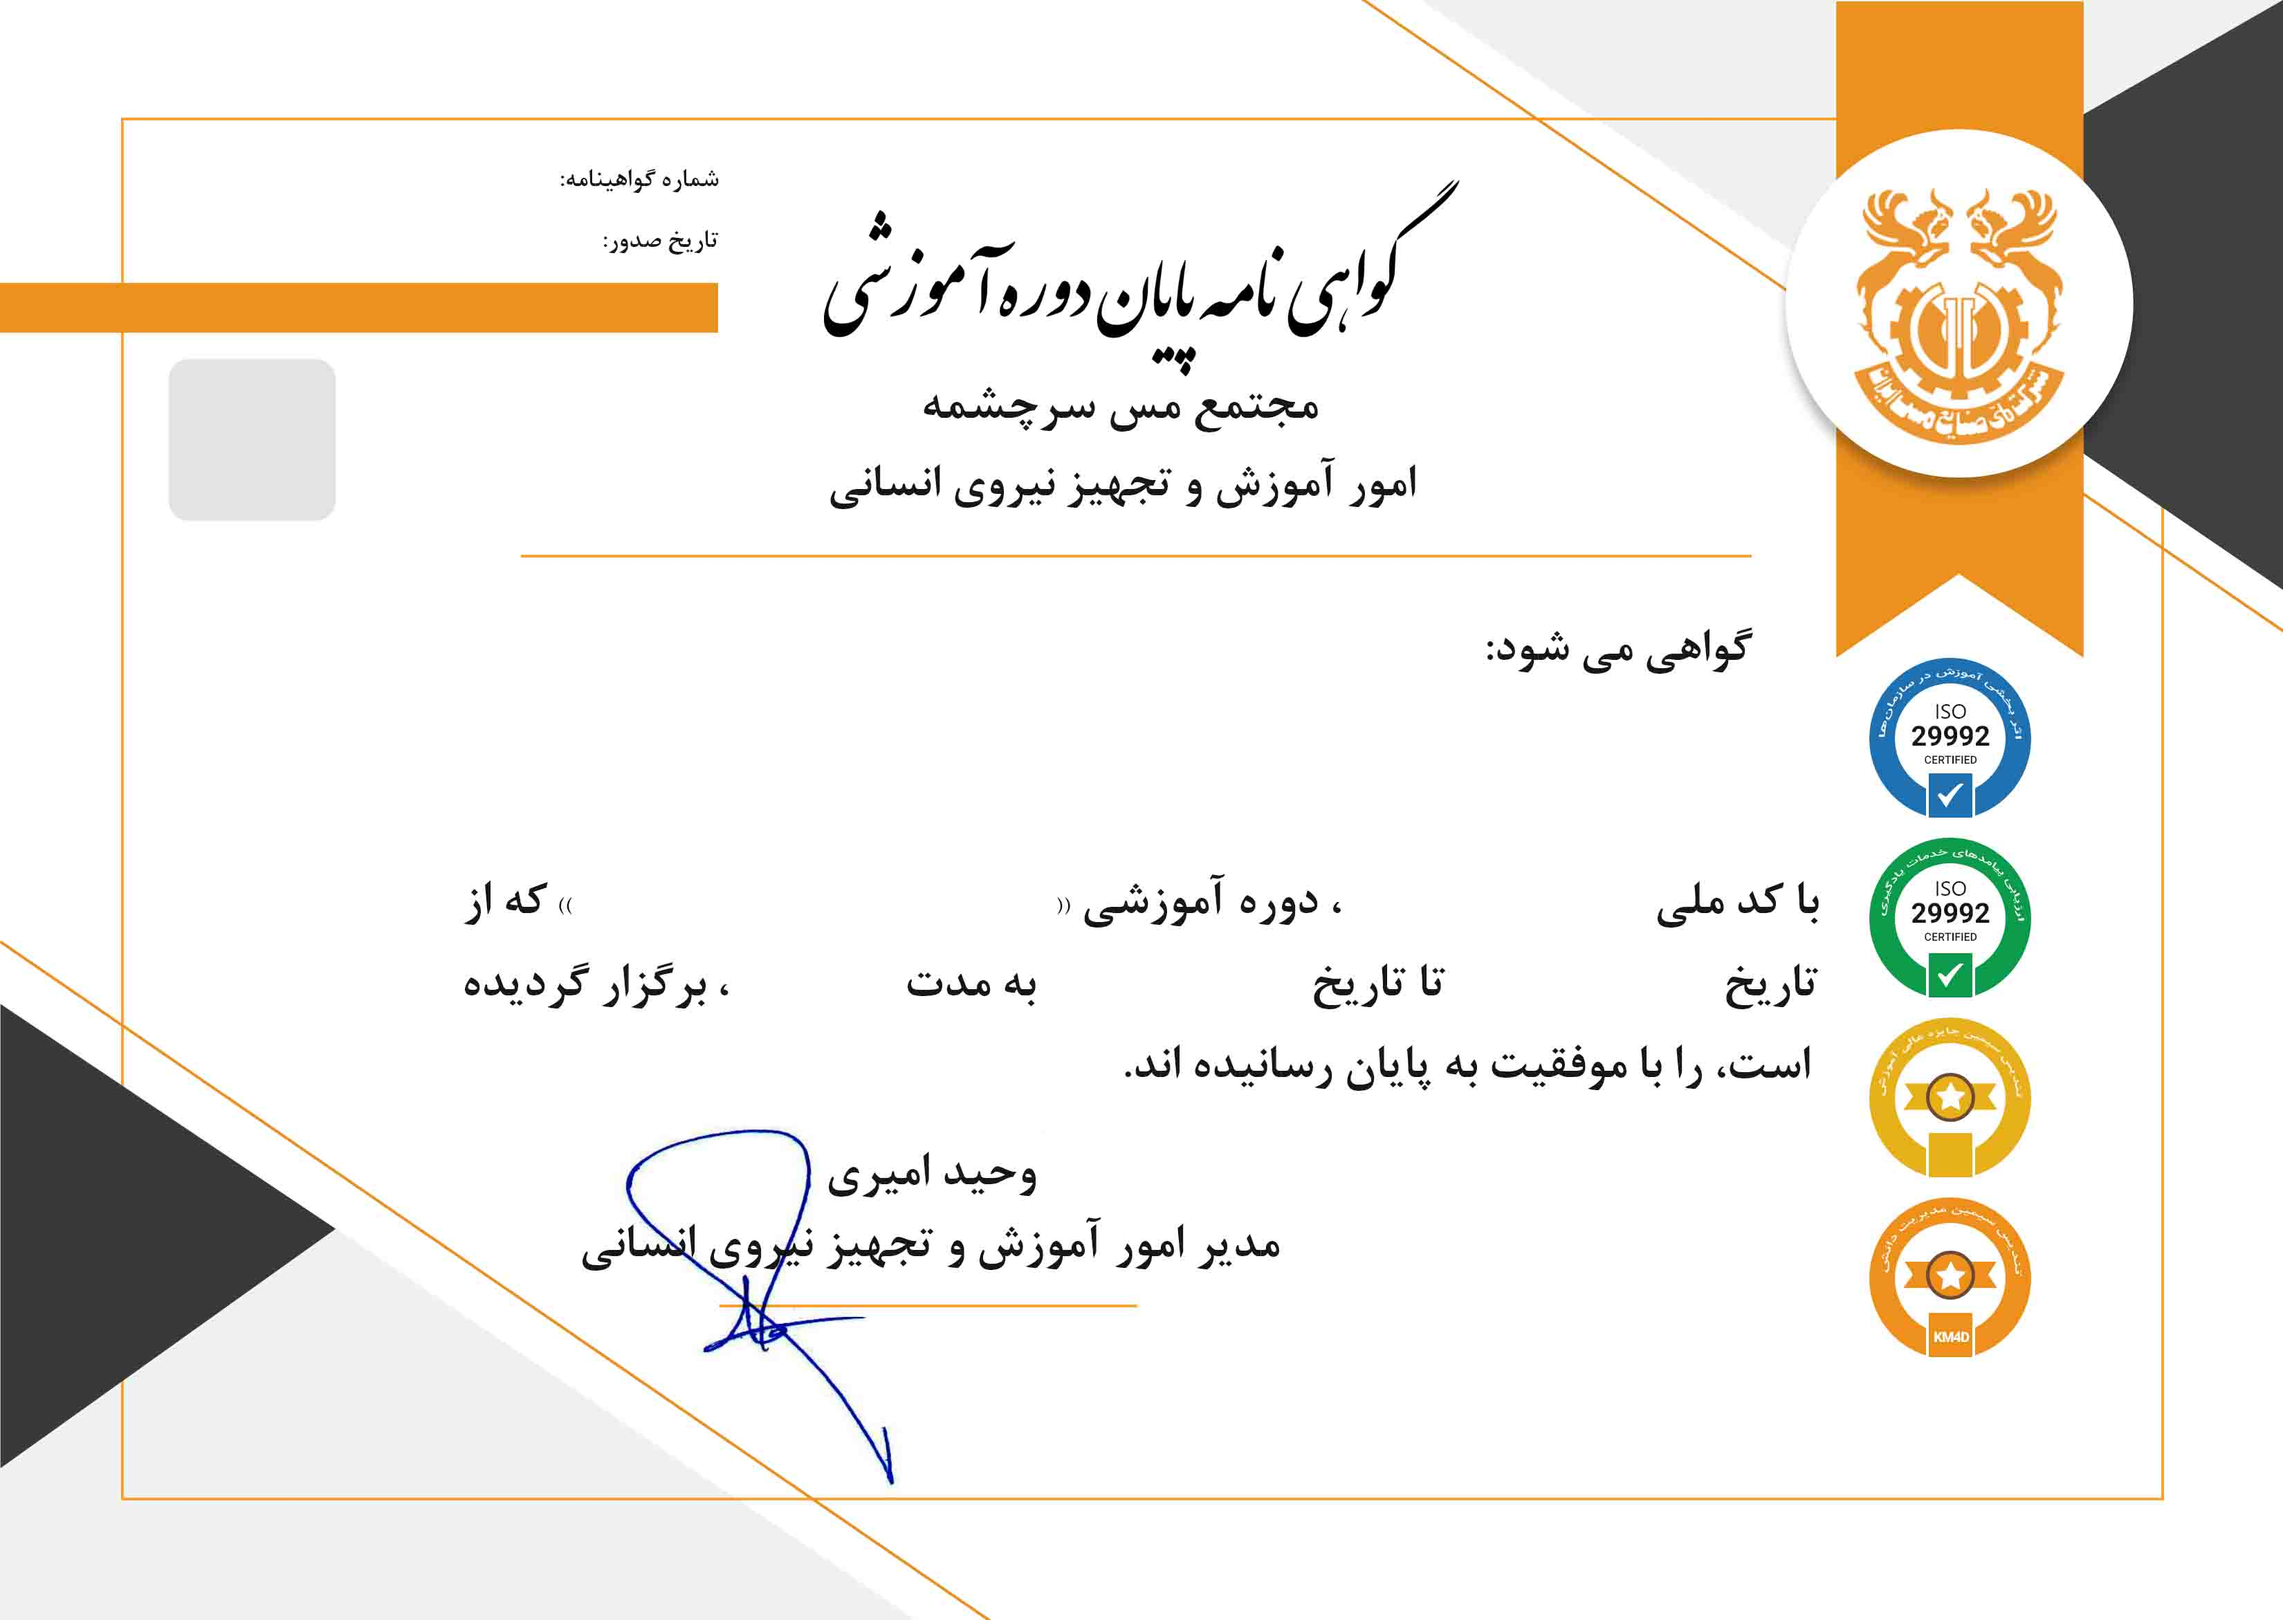
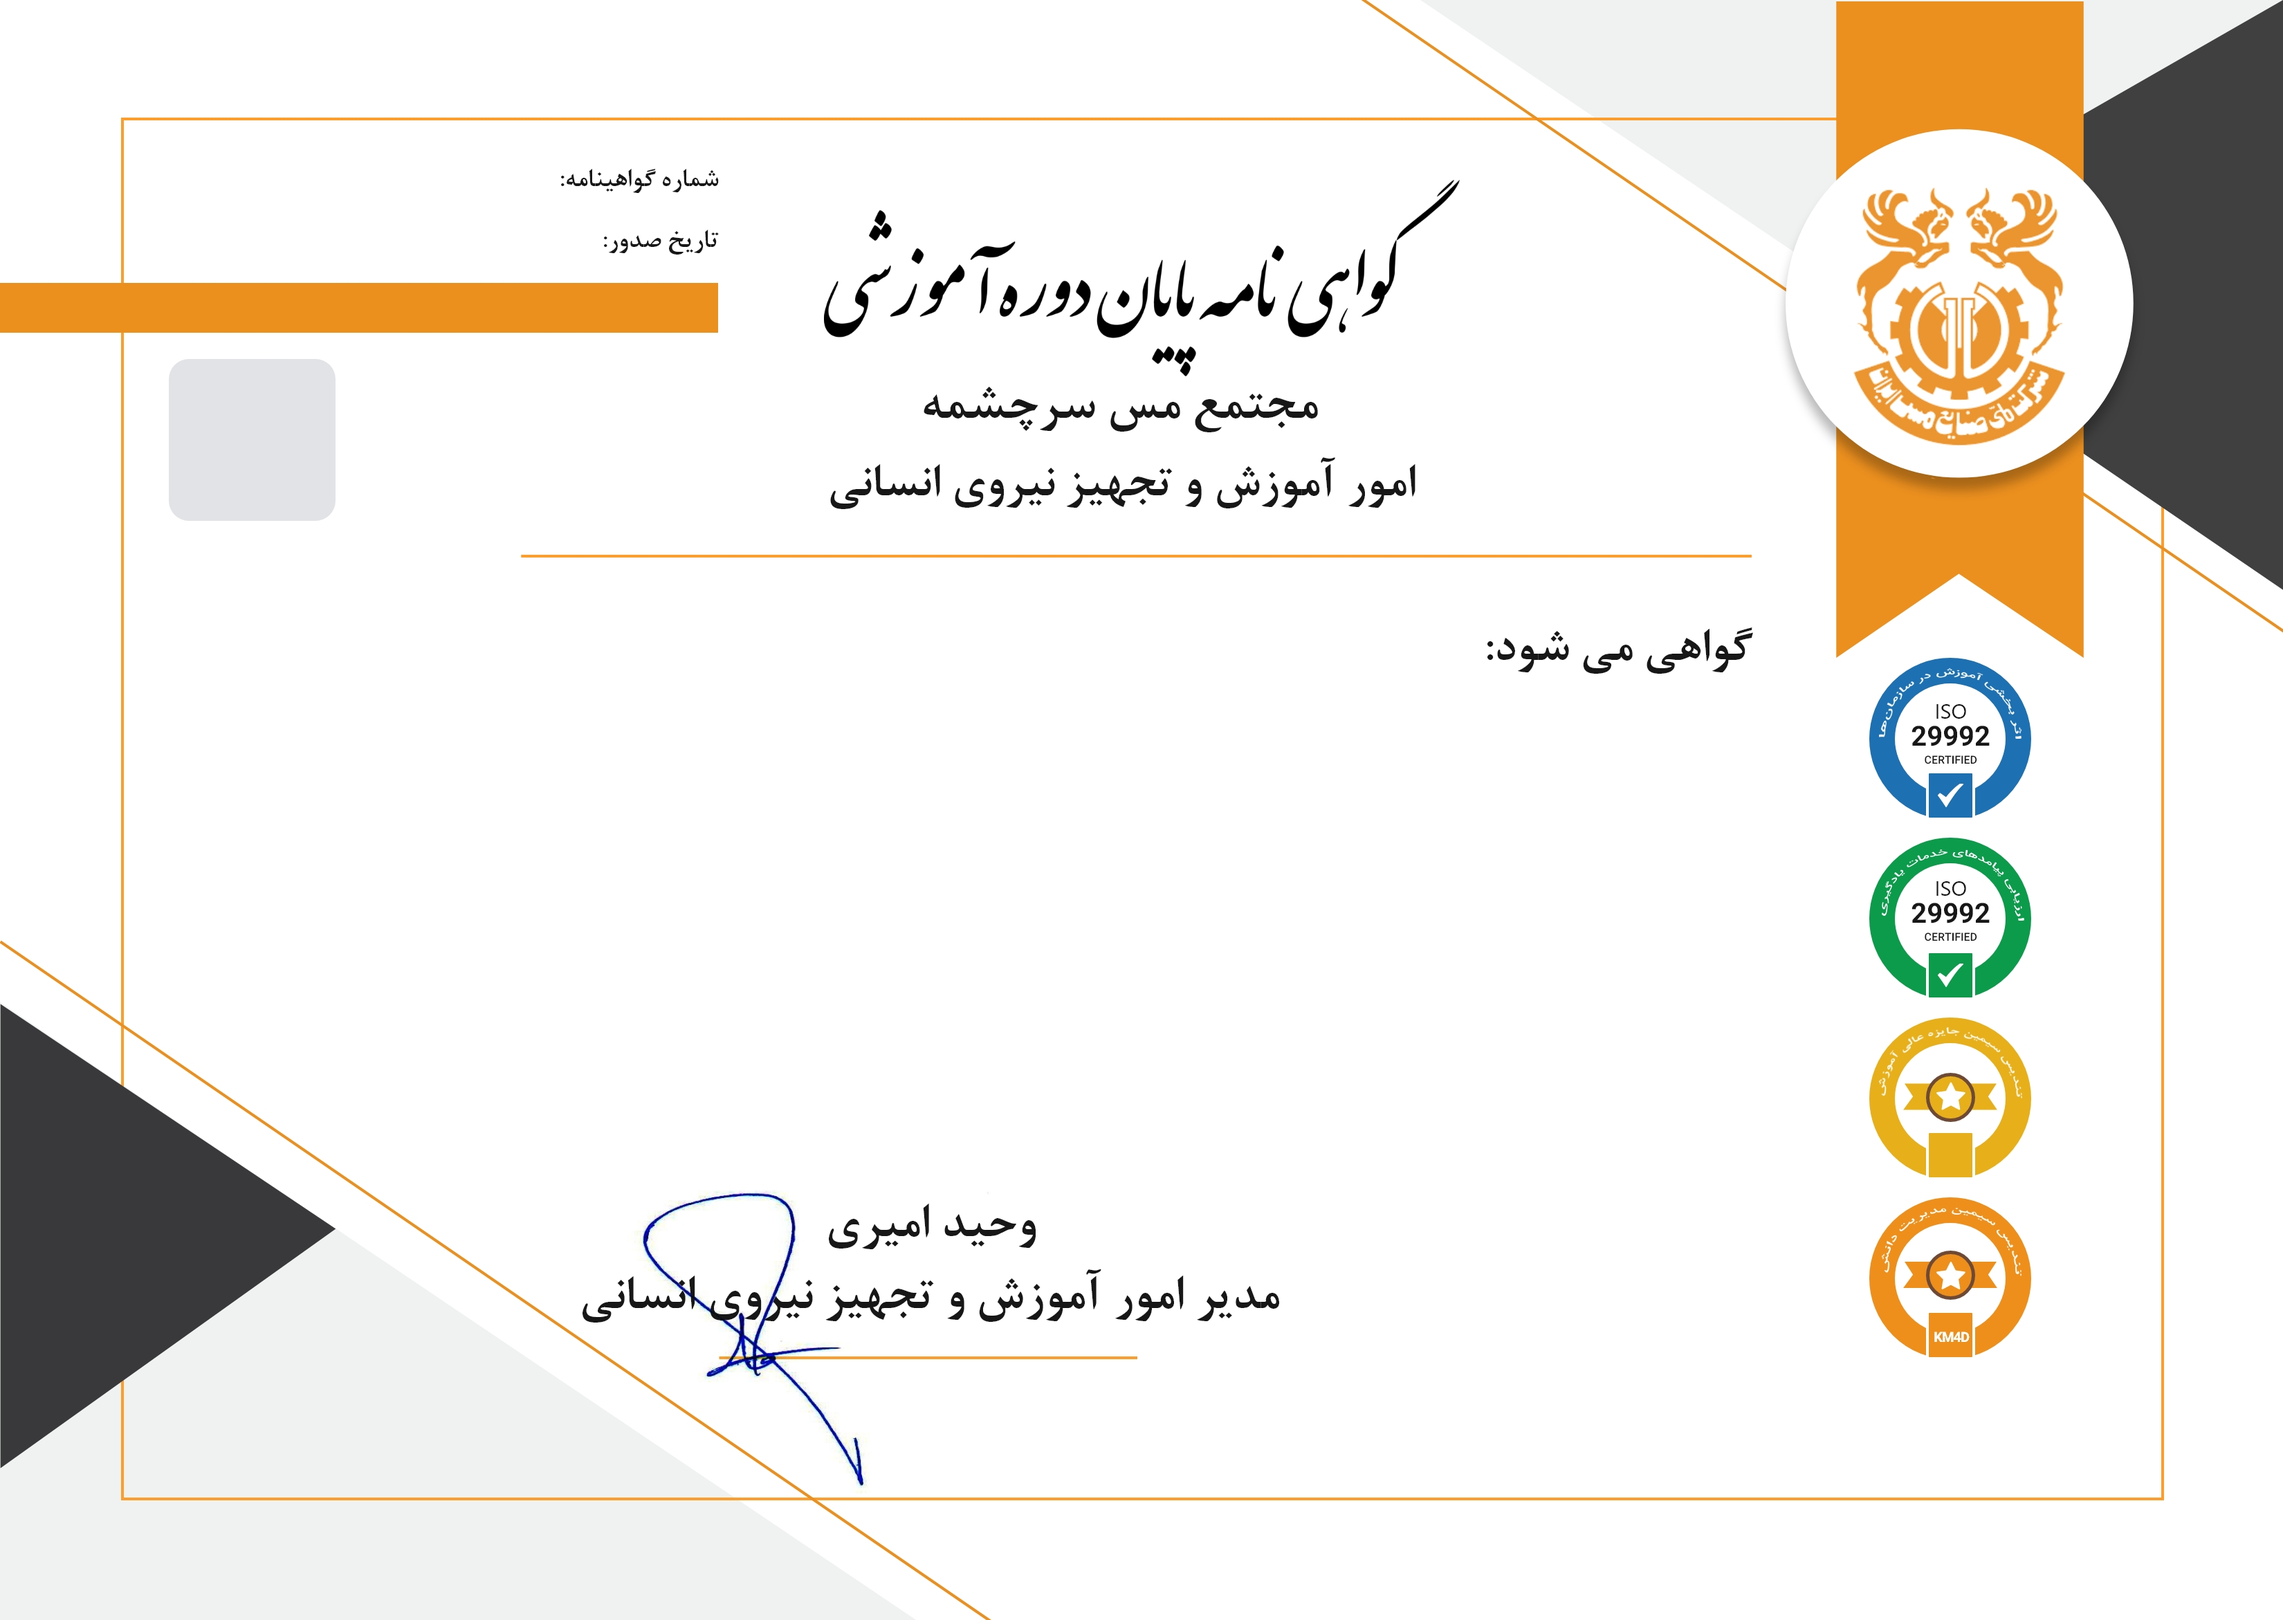
added qr code jasper report

diff --git a/service/src/main/java/com/nicico/training/service/TclassService.java b/service/src/main/java/com/nicico/training/service/TclassService.java
@@ -3028,22 +3028,27 @@ public class TclassService implements ITclassService {
             String code = item[7] != null ? item[7].toString() : "";
             String letterNum = nationalCode + "-" + code;
             String fullName = !name.equals(lastName) ? name + " " + lastName : name;
-            StringBuilder qrData = new StringBuilder();
-            qrData.append("گواهی می شود ").append(fullName).append(" با کد ملی ").append(nationalCode).append(" دوره آموزشی ")
-                    .append(course).append(" که از تاریخ ").append(from).append(" تا تاریخ ").append(to).append(" به مدت ").append(duration).append(" برگزار گردیده است را با موفقیت به پایان رسانیده اند");
             params.put("nationalCode", nationalCode);
             params.put("course", addSpaceToStringBySize(course, 30));
-            params.put("from", from);
-            params.put("to", to);
+//            params.put("from", from);
+//            params.put("to", to);
             params.put("date", DateUtil.todayDate());
-            params.put("duration", duration);
+//            params.put("duration", duration);
             params.put("fullName", fullName);
             params.put("letterNum", letterNum);
-            params.put("qrCodeData", qrData.toString());
+            params.put("qrCodeData", trainingUrl + "anonymous/els/student/qr-code/certification/" + nationalCode + "/" + classId);
             params.put("backImg", ImageIO.read(getClass().getResourceAsStream("/reports/reportFiles/back.jpg")));
+            String text = "با کد ملی " + nationalCode +
+                          " دوره آموزشی " + course +
+                          " که از تاریخ " + from +
+                          " تا تاریخ " + to +
+                          " به مدت " + duration +
+                          " برگزار گردیده است را با موفقیت به پایان رسانیده اند";
+            params.put("text", text);
             params.put(ConstantVARs.REPORT_TYPE, "pdf");
             params2.put(ConstantVARs.REPORT_TYPE, "pdf");
-            params2.put("message", "مدت دوره بیشتر از اختلاف شروع و انتهای کلاس است"+ System.lineSeparator()+" جهت اصلاح مدت دوره به واحد اجرا مراجعه کنید");            JsonDataSource jsonDataSource = new JsonDataSource(new ByteArrayInputStream(z.getBytes(Charset.forName("UTF-8"))));
+            params2.put("message", "مدت دوره بیشتر از اختلاف شروع و انتهای کلاس است" + System.lineSeparator() + " جهت اصلاح مدت دوره به واحد اجرا مراجعه کنید");
+            JsonDataSource jsonDataSource = new JsonDataSource(new ByteArrayInputStream(z.getBytes(Charset.forName("UTF-8"))));
 
             if (findDuration(from, to) * 8 > (Long.parseLong(item[4] != null ? item[4].toString() : String.valueOf(0))))
                 reportUtil.export("/reports/Certificate.jasper", params, jsonDataSource, response);
@@ -3051,7 +3056,54 @@ public class TclassService implements ITclassService {
                 reportUtil.export("/reports/message.jasper", params2, jsonDataSource, response);
 
         }
-
     }
 
+    @Override
+    public void getCertificationByQRCode(String nationalCode, Long classId, HttpServletResponse response) throws IOException, JRException, SQLException {
+        List<?> data = tclassDAO.getCertificationConfirmation(nationalCode, classId);
+
+        if (!data.isEmpty()) {
+            Object[] item = (Object[]) data.get(0);
+            final Map<String, Object> params = new HashMap<>();
+            final Map<String, Object> params2 = new HashMap<>();
+            String z = "{" + "\"content\": " + "[{\"row\":1},{\"row\":2},{\"row\":3},{\"row\":4},{\"row\":5},{\"row\":6},{\"row\":7},{\"row\":8},{\"row\":9},{\"row\":10},{\"row\":11},{\"row\":12},{\"row\":13},{\"row\":14},{\"row\":15},{\"row\":16},{\"row\":17},{\"row\":18},{\"row\":19},{\"row\":20}]}";
+            String scoreStateId = item[0] != null ? item[0].toString() : "";
+            String score = item[1] != null ? item[1].toString() : "";
+            String firstName = item[2] != null ? item[2].toString() : "";
+            String lastName = item[3] != null ? item[3].toString() : "";
+            String fullName = !firstName.equals(lastName) ? firstName + " " + lastName : firstName;
+            String course = item[4] != null ? item[4].toString() : "";
+            String duration = item[5] != null ? item[5] + " ساعت " : "-";
+            String from = item[6] != null ? item[6].toString() : "";
+            String to = item[7] != null ? item[7].toString() : "";
+
+            String text;
+
+            if (scoreStateId.equals("400") || scoreStateId.equals("401")) { // قبول با نمره یا قبول بدون نمره
+                text = "آقا/خانم " + fullName +
+                       " با کد ملی " + nationalCode +
+                       " دوره آموزشی " + course +
+                       " که از تاریخ " + from +
+                       " تا تاریخ " + to +
+                       " به مدت " + duration +
+                       " برگزار گردیده است را با نمره قبولی " + score +
+                       " به پایان رسانیده اند.";
+            } else {
+                text = "آقا/خانم " + fullName +
+                       " با کد ملی " + nationalCode +
+                       " در دوره آموزشی " + course +
+                       " که از تاریخ " + from +
+                       " تا تاریخ " + to +
+                       " به مدت " + duration +
+                       " برگزار گردیده است را با نمره " + score +
+                       "مردود گردیده است.";
+            }
+            params.put("text", text);
+            params.put("profileName", fullName);
+            params.put("backImg", ImageIO.read(getClass().getResourceAsStream("/reports/reportFiles/certconfirmation.jpg")));
+            params.put(ConstantVARs.REPORT_TYPE, "pdf");
+            JsonDataSource jsonDataSource = new JsonDataSource(new ByteArrayInputStream(z.getBytes(Charset.forName("UTF-8"))));
+            reportUtil.export("/reports/CertificateConfirmation.jasper", params, jsonDataSource, response);
+        }
+    }
 }

diff --git a/repository/src/main/java/com/nicico/training/repository/TclassDAO.java b/repository/src/main/java/com/nicico/training/repository/TclassDAO.java
@@ -235,7 +235,30 @@ public interface TclassDAO extends JpaRepository<Tclass, Long>, JpaSpecification
           AND tbl_class.id IN (:classId)
           ORDER BY tbl_class.id
     """, nativeQuery = true)
-    List<?> getCertification(@Param("nationalCode") String nationalCode, @Param("classId") Long classId,Pageable limit);
+    List<?> getCertification(@Param("nationalCode") String nationalCode, @Param("classId") Long classId, Pageable limit);
+
+    @Query(value = """
+            SELECT
+                             tbl_class_student.scores_state_id,
+                             tbl_class_student.score,
+                             tbl_student.first_name,
+                             tbl_student.last_name,
+                             tbl_course.c_title_fa,
+                             tbl_course.n_theory_duration,
+                             tbl_class.c_start_date,
+                             tbl_class.c_end_date
+                         FROM
+                             tbl_student
+                             INNER JOIN tbl_class_student ON tbl_class_student.student_id = tbl_student.id
+                             INNER JOIN tbl_class ON tbl_class.id = tbl_class_student.class_id
+                             INNER JOIN tbl_course ON tbl_class.f_course = tbl_course.id
+                         WHERE
+                             tbl_student.national_code = :nationalcode
+                             AND tbl_class.id IN (
+                                 :classid
+                             )
+                         """, nativeQuery = true)
+    List<?> getCertificationConfirmation(@Param("nationalcode") String nationalCode, @Param("classid") Long classId);
 
 
 }

diff --git a/controller/src/main/java/com/nicico/training/controller/ElsRestController.java b/controller/src/main/java/com/nicico/training/controller/ElsRestController.java
@@ -3178,6 +3178,11 @@ public class ElsRestController {
         tclassService.getCertification(nationalCode, classId, response);
     }
 
+    @GetMapping("/student/certification/qr-code/{nationalCode}/{classId}")
+    public void getCertificationByQRCode(HttpServletResponse response, @PathVariable String nationalCode, @PathVariable Long classId) throws JRException, SQLException, IOException {
+        tclassService.getCertificationByQRCode(nationalCode, classId, response);
+    }
+
     @PostMapping("/passed-classes/by-nationalCode/{nationalCode}/{page}/{size}")
     public ElsPassedCourses passedClassesByNationalCode(@RequestHeader(name = "X-Auth-Token") String header, @PathVariable String nationalCode
             , @PathVariable int page, @PathVariable int size

diff --git a/service/src/main/java/com/nicico/training/iservice/ITclassService.java b/service/src/main/java/com/nicico/training/iservice/ITclassService.java
@@ -237,4 +237,6 @@ public interface ITclassService {
 
     void getCertification(String nationalCode, Long classId, HttpServletResponse response) throws IOException, JRException, SQLException;
 
+    void getCertificationByQRCode(String nationalCode, Long classId, HttpServletResponse response) throws IOException, JRException, SQLException;
+
 }
